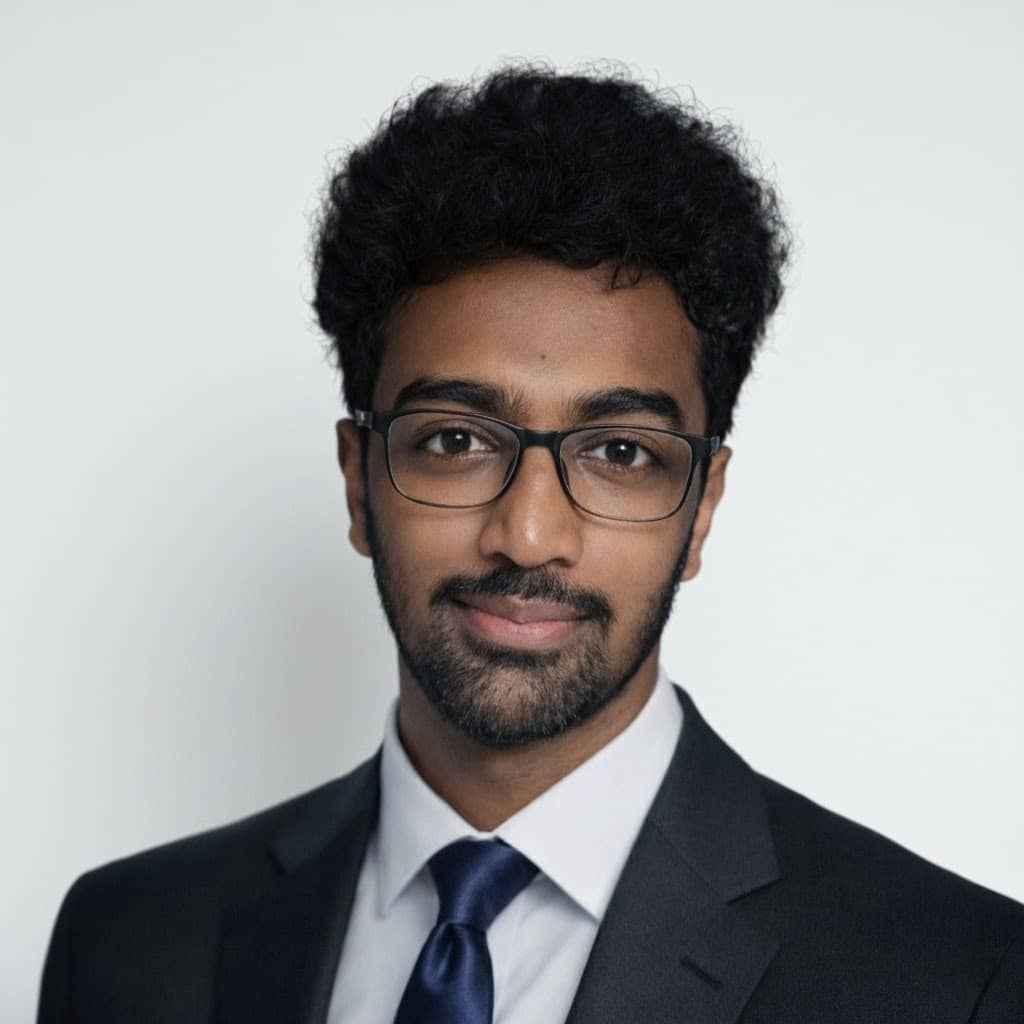
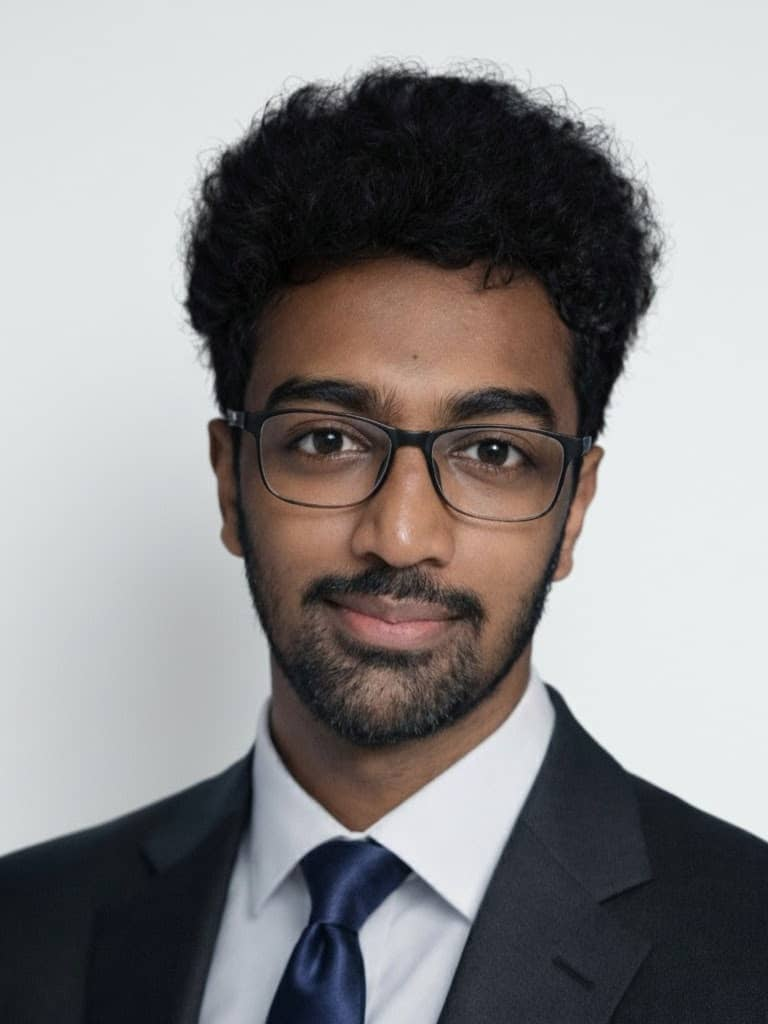
Update about me

Changed region(s): [[0.0, 0.0625, 1.0, 1.0], [0.7188, 0.9688, 0.75, 1.0]]

diff --git a/style.css b/style.css
@@ -95,14 +95,14 @@ nav ul li a:hover::after{
     flex-wrap: wrap;
 }
 .about-col-1{
-    flex-basis: 35%;
+    flex-basis: 30%;
 }
 .about-col-1 img{
-    width: 70%;
+    width: 80%;
     border-radius: 15px;
 }
 .about-col-2{
-    flex-basis: 63%;
+    flex-basis: 70%;
 }
 .subtitle{
     font-size: 50px;
